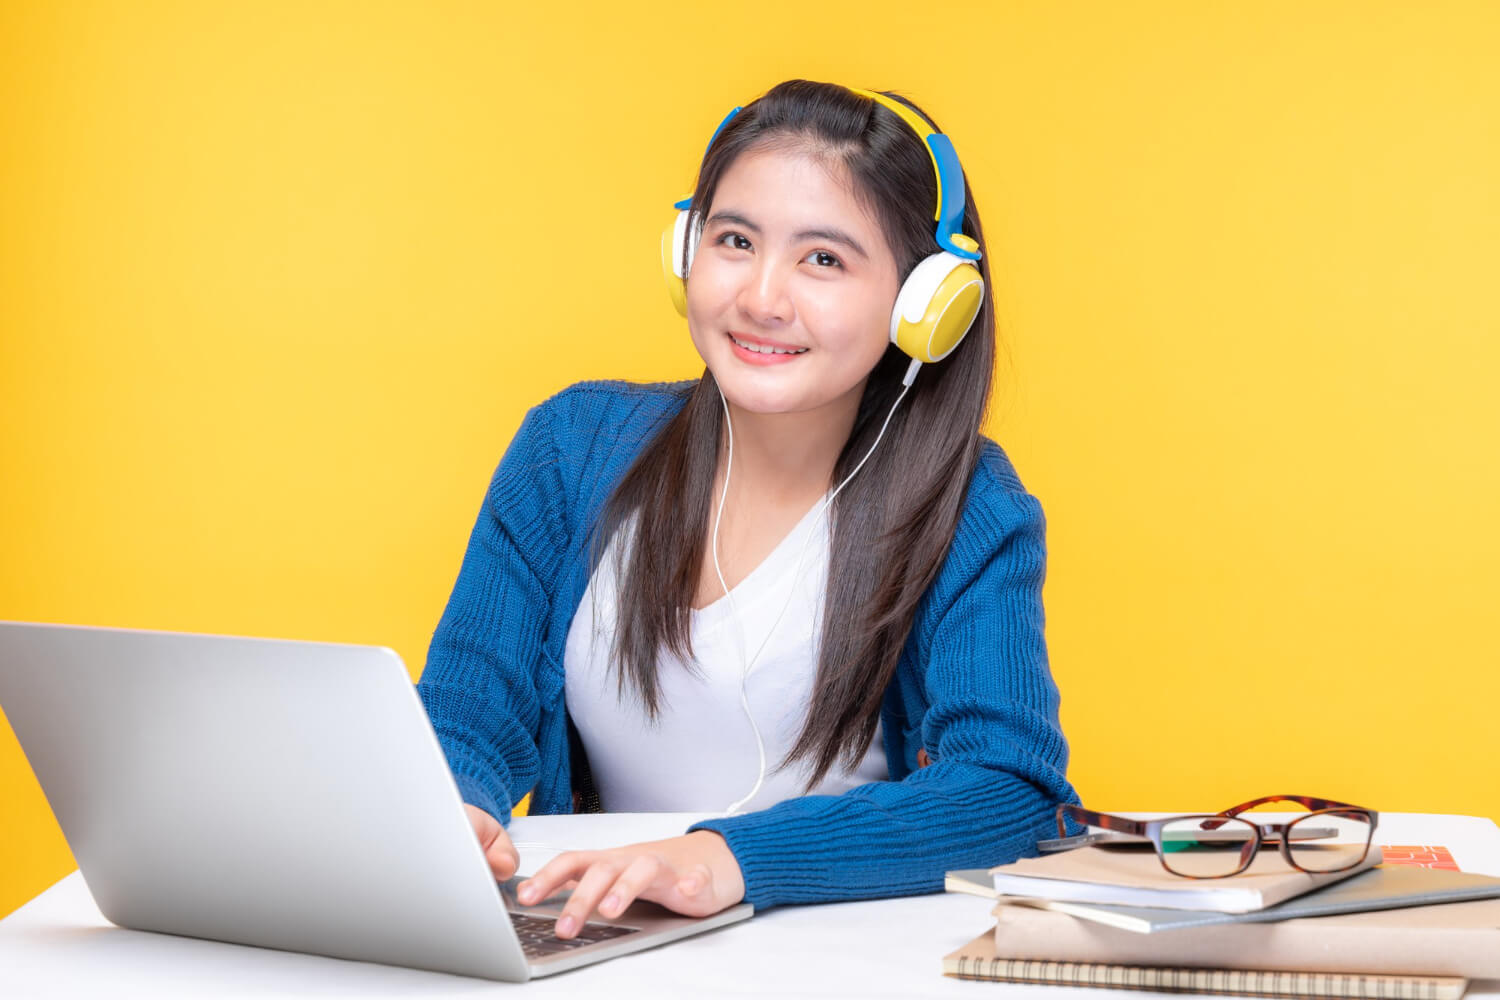
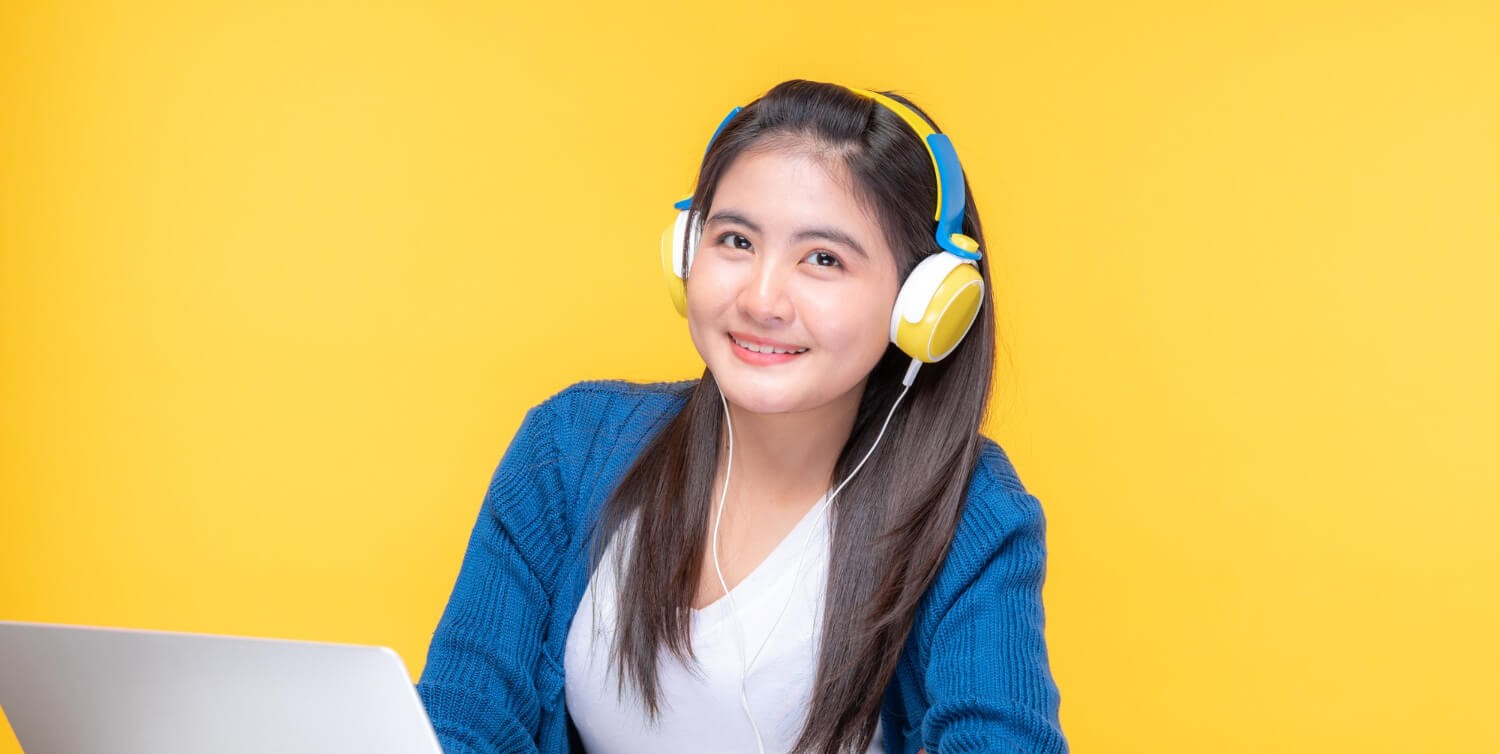
carousel complit

diff --git a/index.html b/index.html
@@ -4,7 +4,7 @@
     <meta charset="UTF-8">
     <meta http-equiv="X-UA-Compatible" content="IE=edge">
     <meta name="viewport" content="width=device-width, initial-scale=1.0">
-    <title>Edtech Website Assignment-3</title>
+    <title>My portfolio Website Assignment-3</title>
     <link href="https://cdn.jsdelivr.net/npm/bootstrap@5.1.3/dist/css/bootstrap.min.css" rel="stylesheet" integrity="sha384-1BmE4kWBq78iYhFldvKuhfTAU6auU8tT94WrHftjDbrCEXSU1oBoqyl2QvZ6jIW3" crossorigin="anonymous">
 </head>
 <body>
@@ -34,34 +34,54 @@
               </div>
             </div>
           </nav>
-
         <!---navbar end-->
-        <!---carousel start-->
-        <section>
-            <div id="carouselExampleFade" class="carousel slide carousel-fade" data-bs-ride="carousel">
+        <!--carousel start--->
+        <section class="container my-5">
+            <div id="carouselExampleInterval" class="carousel slide" data-bs-ride="carousel">
                 <div class="carousel-inner">
-                  <div class="carousel-item active">
-                    <img src="..." class="d-block w-100 img-fluid" alt="...">
+                  <div class="carousel-item active" data-bs-interval="10000">
+                    <img src="images/cover/cover-1.png" class="d-block w-100 img-fluid" alt="...">
+                    <div class="carousel-caption d-flex justify-content-center align-items-center ">
+                        <div class="w-75">
+                            <h1 class="font-weight-bold text-secondary">Get Started Digital Learning</h1>
+                            <p>It is a long established fact that a reader will be distracted by the readable content of a page when looking at its layout.</p>
+                        <div class="btn btn-info px-5">Get Started</div>
+                        </div>
+                      </div>
+                  </div>
+                  <div class="carousel-item" data-bs-interval="2000">
+                    <img src="images/cover/cover-2.jpg" class="d-block w-100 img-fluid" alt="...">
+                    <div class="carousel-caption d-flex justify-content-center align-items-center">
+                        <div class="w-75">
+                            <h1 class="font-weight-bold text-secondary">Get Started Digital Learning</h1>
+                            <p>It is a long established fact that a reader will be distracted by the readable content of a page when looking at its layout.</p>
+                        <div class="btn btn-info px-5">Get Started</div>
+                        </div>
+                      </div>
                   </div>
                   <div class="carousel-item">
-                    <img src="..." class="d-block w-100 img-fluid" alt="...">
-                  </div>
-                  <div class="carousel-item">
-                    <img src="..." class="d-block w-100 img-fluid" alt="...">
+                    <img src="images/cover/cover-3.jpg" class="d-block w-100 img-fluid" alt="...">
+                    <div class="carousel-caption d-flex justify-content-center align-items-center">
+                        <div class="w-75">
+                            <h1 class=" font-weight-bold text-secondary">Get Started Digital Learning</h1>
+                            <p>It is a long established fact that a reader will be distracted by the readable content of a page when looking at its layout.</p>
+                        <div class="btn btn-info px-5">Get Started</div>
+                        </div>
+                      </div>
                   </div>
 
                 </div>
-                <button class="carousel-control-prev" type="button" data-bs-target="#carouselExampleFade" data-bs-slide="prev">
+                <button class="carousel-control-prev" type="button" data-bs-target="#carouselExampleInterval" data-bs-slide="prev">
                   <span class="carousel-control-prev-icon" aria-hidden="true"></span>
                   <span class="visually-hidden">Previous</span>
                 </button>
-                <button class="carousel-control-next" type="button" data-bs-target="#carouselExampleFade" data-bs-slide="next">
+                <button class="carousel-control-next" type="button" data-bs-target="#carouselExampleInterval" data-bs-slide="next">
                   <span class="carousel-control-next-icon" aria-hidden="true"></span>
                   <span class="visually-hidden">Next</span>
                 </button>
               </div>
         </section>
-        <!---carousel end-->
+        <!--carousel end--->
     </header>
     <!---header end-->
     
